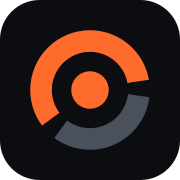
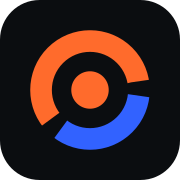
Brand: the ring's second arc is Illinois blue (#3262FF), as chosen

Changed region(s): [[0.3056, 0.5, 0.8333, 0.8333]]

diff --git a/assets/css/site.css b/assets/css/site.css
@@ -3,7 +3,7 @@
   --bg:#0B0D10; --surface:#12151A; --surface-2:#191D24; --surface-3:#20252E;
   --ink:#F2F4F7; --ink-2:#C5CBD5; --muted:#8B93A1; --line:#232830; --line-2:#2C333D;
   --brand:#FF6B2C; --brand-ink:#0B0D10; --brand-soft:rgba(255,107,44,.12); --brand-line:rgba(255,107,44,.35);
-  --yes:#34D399; --yes-soft:rgba(52,211,153,.13); --no:#F87171; --no-soft:rgba(248,113,113,.13); --gold:#E3B341; --mark-rest:#4A515C;
+  --yes:#34D399; --yes-soft:rgba(52,211,153,.13); --no:#F87171; --no-soft:rgba(248,113,113,.13); --gold:#E3B341; --mark-rest:#3262FF;
   --glass:rgba(11,13,16,.78);
   --display:"Manrope",ui-sans-serif,system-ui,-apple-system,"Segoe UI",sans-serif;
   --sans:"DM Sans",ui-sans-serif,system-ui,-apple-system,"Segoe UI",sans-serif;
@@ -16,7 +16,7 @@
     --bg:#F5F6F8; --surface:#FFFFFF; --surface-2:#EEF0F3; --surface-3:#E4E7EC;
     --ink:#0B0D10; --ink-2:#363B44; --muted:#6B7280; --line:#DDE1E7; --line-2:#CDD2DA;
     --brand:#E85D1F; --brand-ink:#FFFFFF; --brand-soft:rgba(232,93,31,.10); --brand-line:rgba(232,93,31,.35);
-    --yes:#059669; --yes-soft:rgba(5,150,105,.10); --no:#DC2626; --no-soft:rgba(220,38,38,.10); --gold:#A16207; --mark-rest:#D0D5DD;
+    --yes:#059669; --yes-soft:rgba(5,150,105,.10); --no:#DC2626; --no-soft:rgba(220,38,38,.10); --gold:#A16207; --mark-rest:#3262FF;
     --glass:rgba(245,246,248,.82);
   }
 }
@@ -25,7 +25,7 @@
   --bg:#F5F6F8; --surface:#FFFFFF; --surface-2:#EEF0F3; --surface-3:#E4E7EC;
   --ink:#0B0D10; --ink-2:#363B44; --muted:#6B7280; --line:#DDE1E7; --line-2:#CDD2DA;
   --brand:#E85D1F; --brand-ink:#FFFFFF; --brand-soft:rgba(232,93,31,.10); --brand-line:rgba(232,93,31,.35);
-  --yes:#059669; --yes-soft:rgba(5,150,105,.10); --no:#DC2626; --no-soft:rgba(220,38,38,.10); --gold:#A16207; --mark-rest:#D0D5DD;
+  --yes:#059669; --yes-soft:rgba(5,150,105,.10); --no:#DC2626; --no-soft:rgba(220,38,38,.10); --gold:#A16207; --mark-rest:#3262FF;
   --glass:rgba(245,246,248,.82);
 }
 *{box-sizing:border-box}

diff --git a/brand/src/build.py b/brand/src/build.py
@@ -1,6 +1,6 @@
 """Build every Prediction@Illinois brand asset from one ring geometry.
 
-The mark is a probability ring: a 62% brand-orange arc and a 38% muted arc,
+The mark is a probability ring: a 62% brand-orange arc and a 38% blue arc,
 split by two flat-cut gaps, rotated so the orange arc rises from the lower
 left, with a solid dot in the centre. The logo lockup sets the ring in place
 of the "@" in Prediction@Illinois; running text keeps the "@".
@@ -22,7 +22,7 @@ CHROME = "/Applications/Google Chrome.app/Contents/MacOS/Google Chrome"
 
 INK, WHITE = "#0B0D10", "#F2F4F7"
 ORANGE, ORANGE_LIGHT = "#FF6B2C", "#E85D1F"   # site --brand, dark and light themes
-REST_DARK, REST_LIGHT = "#4A515C", "#D0D5DD"  # the 38% arc on dark / light grounds
+REST_DARK = REST_LIGHT = "#3262FF"               # the 38% arc: blue, so the ring carries Illinois orange + blue
 
 C = 2 * math.pi * 34
 SPLIT = 0.62
